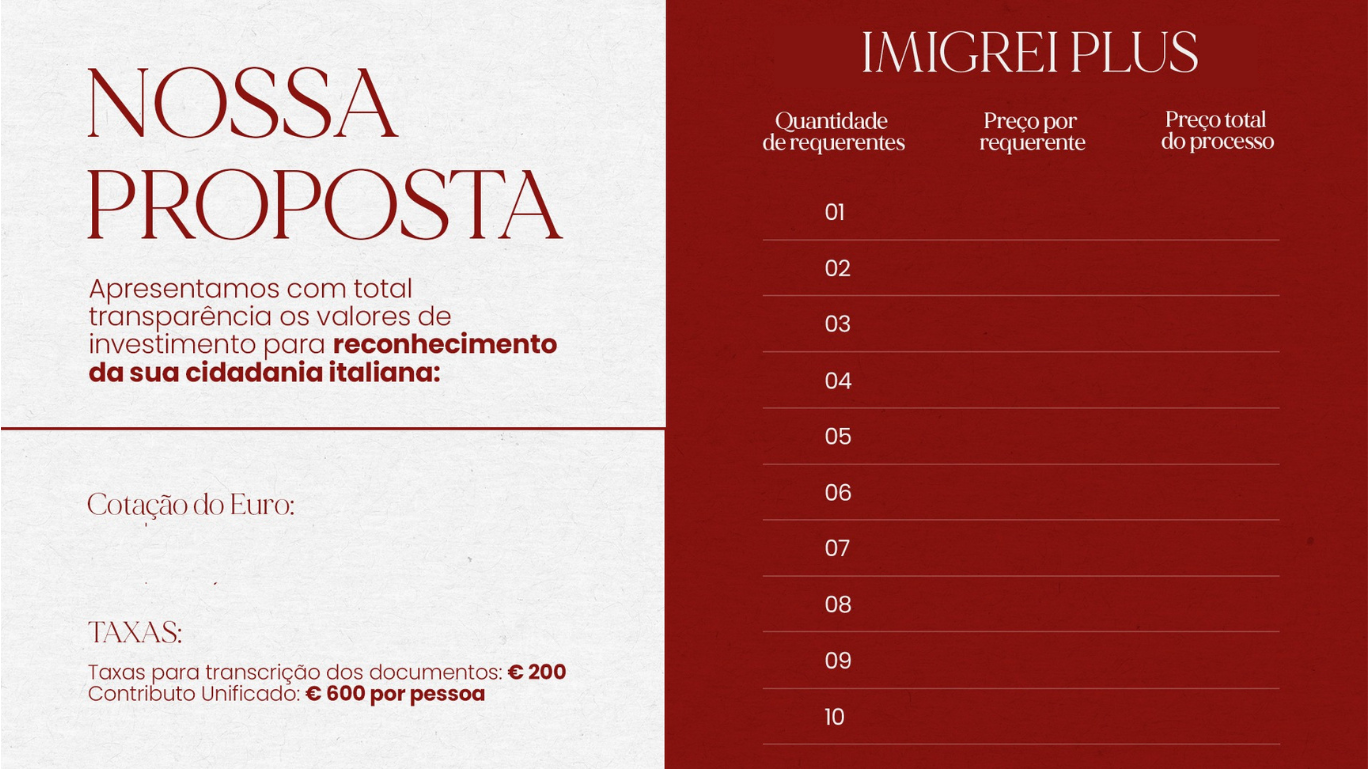
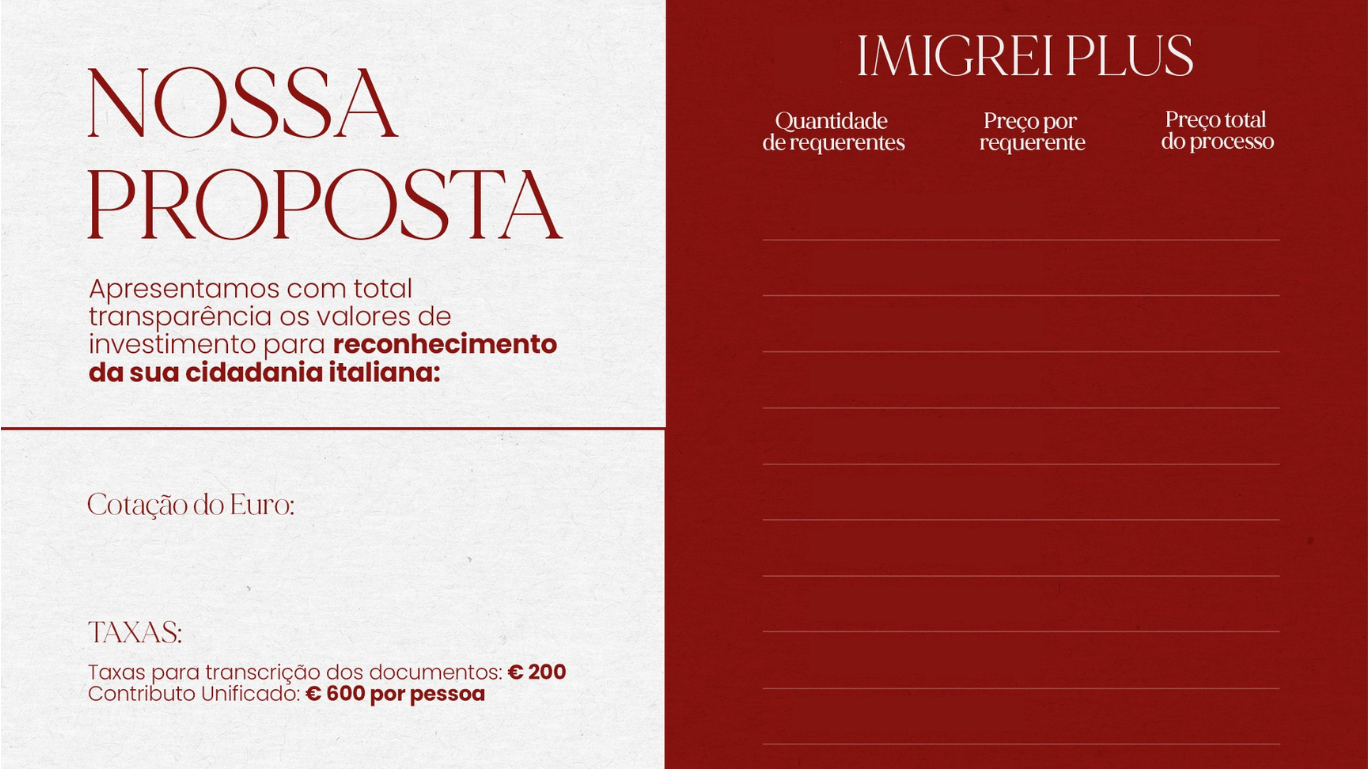
ajuste apresentação família

diff --git a/app.js b/app.js
@@ -93,14 +93,14 @@ async function pdfFamily() {
     doc.addImage(img, 'JPEG', 0, 0, imgWidth, imgHeight);
 
     if (i === 0) {
-      doc.setFont("Poppins", "bolditalic");
+      doc.setFont("Poppins", "light");
       doc.setFontSize(60);
       doc.setTextColor("#FFF");
       doc.text(`${familyName}`, 920, 282);
     }
 
     if (i === 10 && planValues.length) {
-      doc.setFont("Poppins", "normal");
+      doc.setFont("Poppins", "light");
       doc.setFontSize(70);
       doc.setTextColor("#640915");
       doc.text(`R$:${cotacaoEuro.toFixed(2).replace('.', ",")}`, 125, 780);
@@ -109,15 +109,9 @@ async function pdfFamily() {
       doc.setFontSize(35);
       doc.setTextColor("#FFF");
 
-      const r = requerentes - 1;
-
-      const valorRequerente = planValues[r * 2];
-      const valorProcesso = planValues[r * 2 + 1];
-
-      if (valorRequerente !== undefined && valorProcesso !== undefined) {
-        doc.text(`0${requerentes}`, 1155, 310);
-        doc.text(`12x de R$:${(valorRequerente * cotacaoEuro / 12).toFixed(2).replace('.', ',')}`, 1338, 310);
-        doc.text(`12x de R$:${(valorProcesso * cotacaoEuro / 12).toFixed(2).replace('.', ',')}`, 1600, 310);
+      for (let j = 0; j < requerentes * 2 && j < planValues.length; j += 2) {
+        doc.text(`12x de R$:${(planValues[j] * cotacaoEuro / 12).toFixed(2).replace('.', ',')}`, 1338, 310 + (j / 2) * 78);
+        doc.text(`12x de R$:${(planValues[j + 1] * cotacaoEuro / 12).toFixed(2).replace('.', ',')}`, 1600, 310 + (j / 2) * 78);
       }
     }
   }
